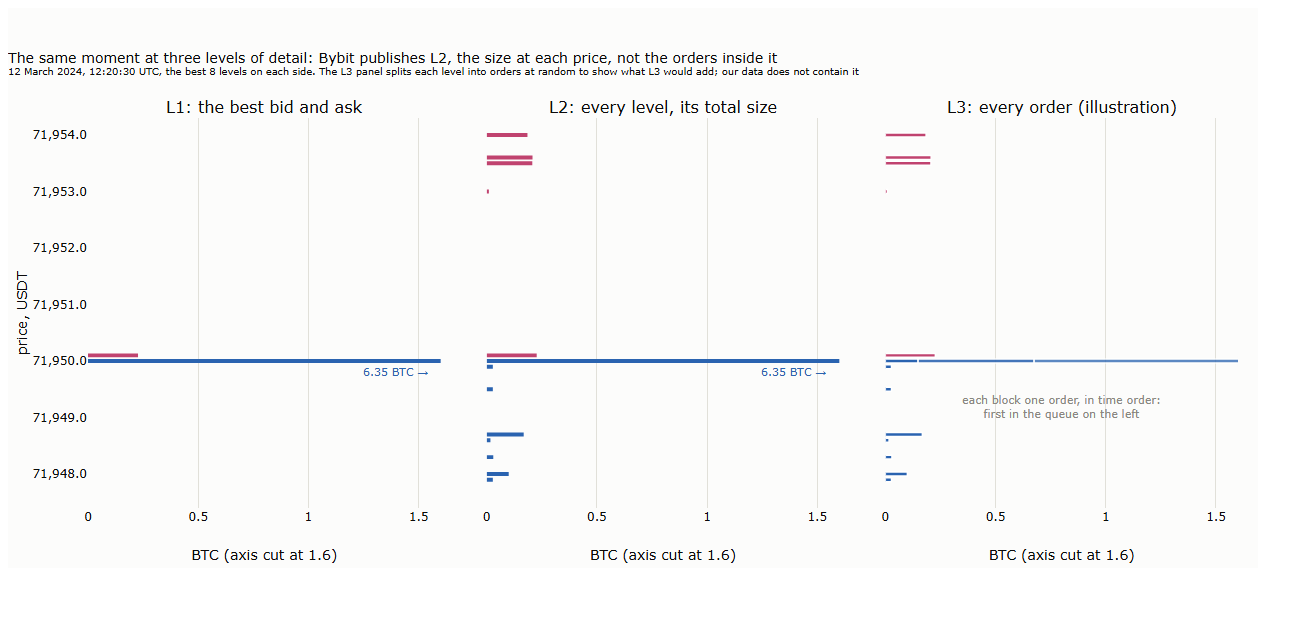
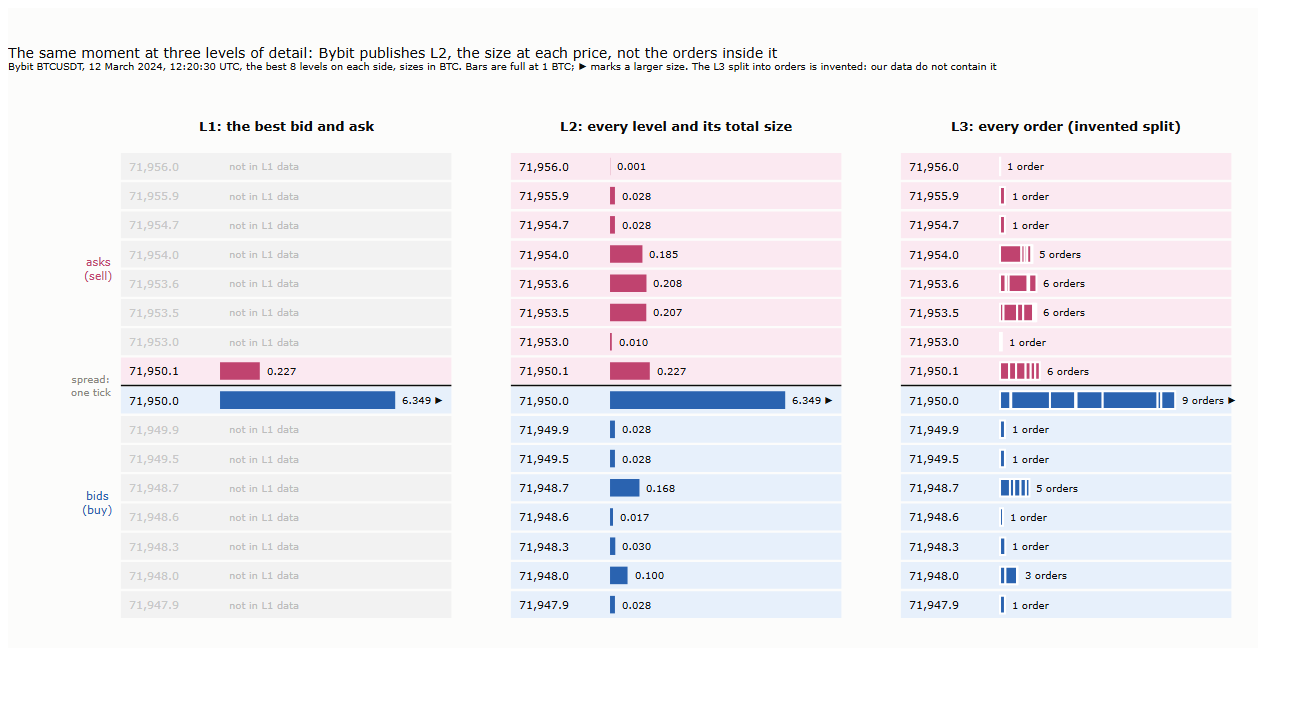
L18 figure 18_03 redrawn as three ladders (L1, L2, L3) (#230)
The scaled-price bar chart was hard to read (thin bars, empty gaps, cut axis); one row per level with sizes written in, as trading screens show a book.

diff --git a/lectures/18-the-order-book/lecture.md b/lectures/18-the-order-book/lecture.md
@@ -76,7 +76,7 @@ Public order-book data come at three levels of detail, and the level decides whi
 | **L3** | Every single order: when it arrived, at which price and size, and when it was filled or cancelled | Some venues publish it live; historical L3 data are rare and usually paid for |
 
 ![The same moment at three levels of detail](figures/18_03_l1_l2_l3.png)
-<sub><b>How to read the figure.</b> The book of figure 18_02 at three levels of detail, best 8 levels a side. <b>L1:</b> only the best bid and ask. <b>L2:</b> every level and its total size. <b>L3:</b> each level split into its individual orders, the first to arrive on the left. The split is invented at random for the illustration: our data do not contain it. The axis is cut at 1.6 BTC, so most of the best bid's 6.35 BTC lies off the panel.</sub>
+<sub><b>How to read the figure.</b> The book of figure 18_02 drawn as three ladders, the way trading screens show a book: one row per level, asks (pink) above, bids (blue) below, the price on the left and the size in BTC written in each row; bars are full at 1 BTC, and ▶ marks a larger size. <b>L1:</b> only the best bid and ask; the other rows are not in L1 data. <b>L2:</b> every level and its total size. <b>L3:</b> each level split into its individual orders, the first to arrive on the left. The split is invented for the illustration: our data do not contain it.</sub>
 
 L2 is the level of most public crypto data, and it answers most questions about liquidity: where the depth is, how wide the spread, what a market order costs. What it cannot show is the queue inside a level, and that matters to anyone whose order waits in it.
 
